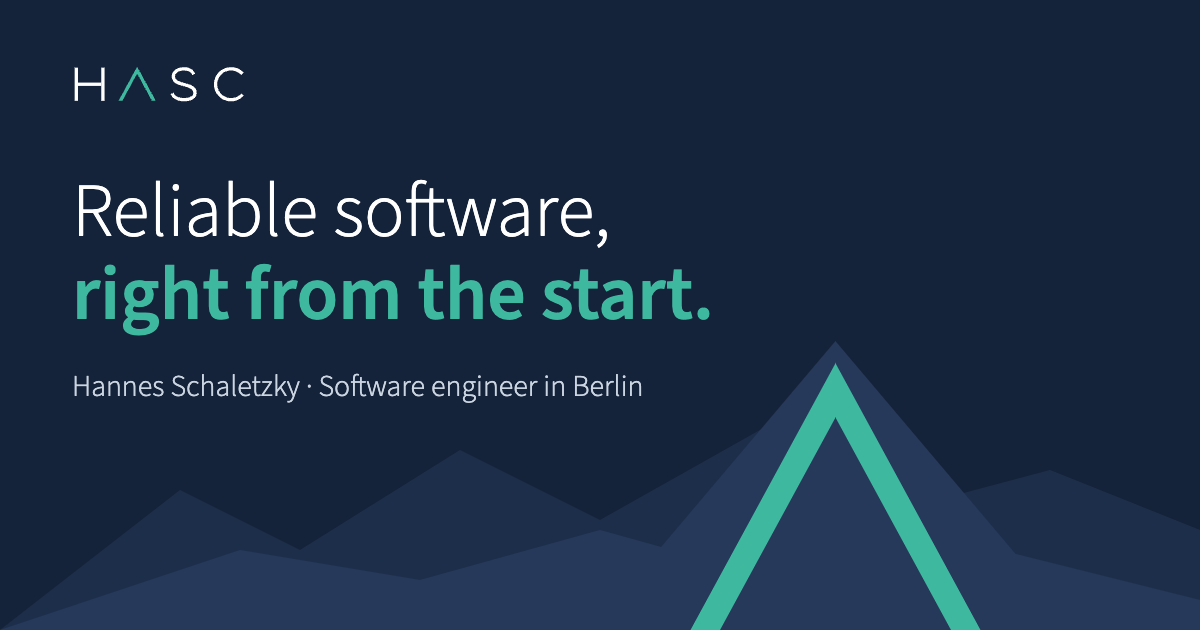
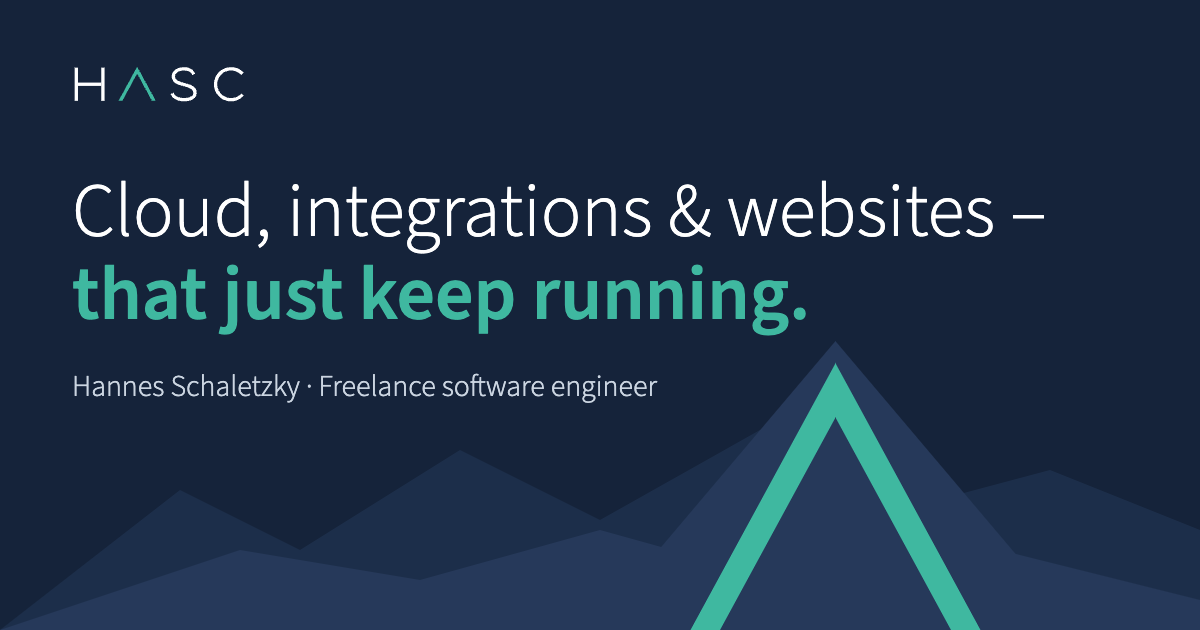
New index headline, pill language switch, Berlin as base not limit
- index: Cloud, Integrationen & Websites – die zuverlässig laufen / Cloud, integrations & websites – that just keep running
- subtitle: Vom ersten Konzept bis zum laufenden Betrieb – alles aus einer Hand
- hero height follows its text, so the buttons never run into the mountains on phones
- DE | EN pill switch, also in the phone header
- titles without location, descriptions with aus Berlin + deutschlandweit remote oder vor Ort
- preview images updated

Changed region(s): [[0.0617, 0.2714, 0.8633, 0.5429], [0.2467, 0.6032, 0.555, 0.6333]]

diff --git a/app/routes/($lang)._index.tsx b/app/routes/($lang)._index.tsx
@@ -15,24 +15,24 @@ export const loader = langLoader;
 
 const text = {
   de: {
-    title: "Hannes Schaletzky | Freelance Software Engineer in Berlin",
+    title: "Hannes Schaletzky | Freelance Software Engineer",
     description:
-      "Software Engineer in Berlin: Integrations- und Cloud-Lösungen mit Node.js/TypeScript und AWS – dazu Websites und Hosting für kleine Unternehmen und Vereine.",
-    heading: "Zuverlässige Software,",
-    highlight: "von Anfang an.",
+      "Software Engineer aus Berlin, deutschlandweit remote oder vor Ort: Cloud- und Integrationslösungen mit Node.js/TypeScript und AWS – dazu Websites und Hosting.",
+    heading: "Cloud, Integrationen &\u00a0Websites –",
+    highlight: "die zuverlässig laufen.",
     intro:
-      "Ich bin Hannes, freiberuflicher Software Engineer in Berlin – für Cloud-Plattformen und Websites.",
+      "Ich bin Hannes, freiberuflicher Software Engineer. Vom ersten Konzept bis zum laufenden Betrieb – alles aus einer Hand.",
     contact: "Kontakt aufnehmen",
     offers: "Was ich mache",
   },
   en: {
-    title: "Hannes Schaletzky | Freelance Software Engineer in Berlin",
+    title: "Hannes Schaletzky | Freelance Software Engineer",
     description:
-      "Software engineer in Berlin: integration and cloud solutions with Node.js/TypeScript and AWS – plus websites and hosting for small businesses and clubs.",
-    heading: "Reliable software,",
-    highlight: "right from the start.",
+      "Software engineer from Berlin, remote across Germany or on-site: cloud and integration solutions with Node.js/TypeScript and AWS – plus websites and hosting.",
+    heading: "Cloud, integrations &\u00a0websites –",
+    highlight: "that just keep running.",
     intro:
-      "I'm Hannes, a freelance software engineer in Berlin – for cloud platforms and websites.",
+      "I'm Hannes, a freelance software engineer. From the first concept to day-to-day operation – all from one person.",
     contact: "Get in touch",
     offers: "See what I do",
   },
@@ -59,9 +59,11 @@ export default function Index() {
       <Header />
 
       <main>
-        {/* hero – -mb-px: overlaps the next section so no dark hairline shows */}
-        <section className="relative -mb-px h-[56rem] overflow-hidden sm:h-[60rem]">
-          <Mountains heightClass="h-[35%] sm:h-[42%]" />
+        {/* hero – the height follows the text, the bottom padding keeps room for the
+            mountains (slightly taller than them, so the peak never touches the
+            buttons); -mb-px overlaps the next section so no dark hairline shows */}
+        <section className="relative -mb-px overflow-hidden pb-[20.5rem] sm:pb-[26.5rem]">
+          <Mountains heightClass="h-[19rem] sm:h-[25rem]" />
           <div className="relative mx-auto max-w-4xl px-4 pt-14 text-center sm:px-6 sm:pt-20">
             {/* who – what – next step, nothing else */}
             <img

diff --git a/app/routes/($lang).about.tsx b/app/routes/($lang).about.tsx
@@ -12,9 +12,9 @@ export const loader = langLoader;
 
 const text = {
   de: {
-    title: "Über mich | Hannes Schaletzky, Software Engineer in Berlin",
+    title: "Über mich | Hannes Schaletzky, Software Engineer",
     description:
-      "Hannes Schaletzky – freiberuflicher Software Engineer in Berlin, Skilehrer und Beachvolleyball-Trainer. Wie ich arbeite, woran ich glaube und was ich neben dem Code mache.",
+      "Hannes Schaletzky – freiberuflicher Software Engineer aus Berlin, Skilehrer und Beachvolleyball-Trainer. Wie ich arbeite, woran ich glaube und was ich neben dem Code mache.",
     hero: {
       eyebrow: "Über mich",
       title: "Hallo, ich bin Hannes –",
@@ -31,9 +31,9 @@ const text = {
     social: "Ehrenamt",
   },
   en: {
-    title: "About me | Hannes Schaletzky, Software Engineer in Berlin",
+    title: "About me | Hannes Schaletzky, Software Engineer",
     description:
-      "Hannes Schaletzky – freelance software engineer in Berlin, ski instructor and beach volleyball coach. How I work, what I believe and what I do besides code.",
+      "Hannes Schaletzky – freelance software engineer from Berlin, ski instructor and beach volleyball coach. How I work, what I believe and what I do besides code.",
     hero: {
       eyebrow: "About me",
       title: "Hi, I'm Hannes –",

diff --git a/app/routes/($lang).cloud.tsx b/app/routes/($lang).cloud.tsx
@@ -20,9 +20,9 @@ const projectMail = {
 
 const text = {
   de: {
-    title: "Integration & Cloud Engineer in Berlin | Hannes Schaletzky",
+    title: "Integration & Cloud Engineer | Hannes Schaletzky",
     description:
-      "Freiberuflicher Integration & Cloud Engineer in Berlin – Backend- und Integrationslösungen mit Node.js/TypeScript und AWS, vom Projekt-Kickoff bis zum Betrieb.",
+      "Freiberuflicher Integration & Cloud Engineer aus Berlin, deutschlandweit remote oder vor Ort – Backend- und Integrationslösungen mit Node.js/TypeScript und AWS.",
     hero: {
       eyebrow: "Für Unternehmen",
       title: "Cloud & Integrationen,",
@@ -126,9 +126,9 @@ const text = {
     ],
   },
   en: {
-    title: "Integration & Cloud Engineer in Berlin | Hannes Schaletzky",
+    title: "Integration & Cloud Engineer | Hannes Schaletzky",
     description:
-      "Freelance integration & cloud engineer in Berlin – backend and integration solutions with Node.js/TypeScript and AWS, from project kickoff to production.",
+      "Freelance integration & cloud engineer from Berlin, remote across Germany or on-site – backend and integration solutions with Node.js/TypeScript and AWS.",
     hero: {
       eyebrow: "For companies",
       title: "Cloud & integrations",

diff --git a/app/routes/($lang).contact.tsx b/app/routes/($lang).contact.tsx
@@ -14,7 +14,7 @@ const text = {
   de: {
     title: "Kontakt | Hannes Schaletzky",
     description:
-      "Kontakt zu Hannes Schaletzky, freiberuflicher Software Engineer in Berlin – per E-Mail, auf LinkedIn oder in einem Erstgespräch.",
+      "Kontakt zu Hannes Schaletzky, freiberuflicher Software Engineer aus Berlin – per E-Mail, auf LinkedIn oder in einem Erstgespräch.",
     eyebrow: "Kontakt",
     title1: "Lassen Sie uns",
     highlight: "über Ihr Projekt sprechen.",
@@ -51,7 +51,7 @@ const text = {
   en: {
     title: "Contact | Hannes Schaletzky",
     description:
-      "Contact Hannes Schaletzky, freelance software engineer in Berlin – by email, on LinkedIn or in an intro call.",
+      "Contact Hannes Schaletzky, freelance software engineer from Berlin – by email, on LinkedIn or in an intro call.",
     eyebrow: "Contact",
     title1: "Let's talk",
     highlight: "about your project.",
